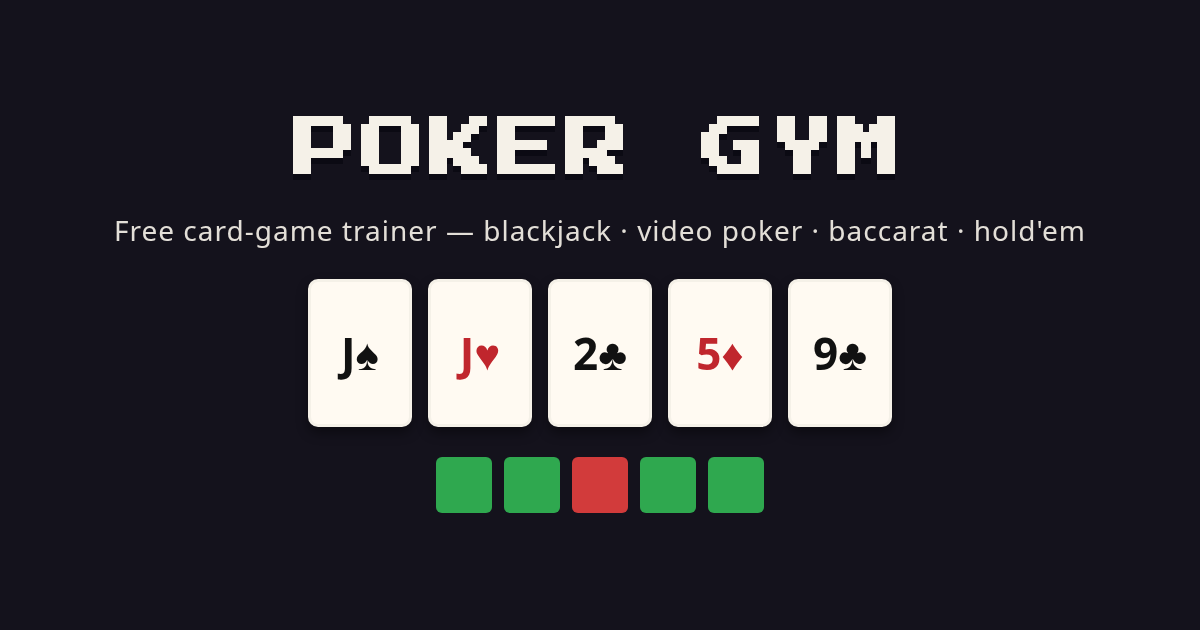
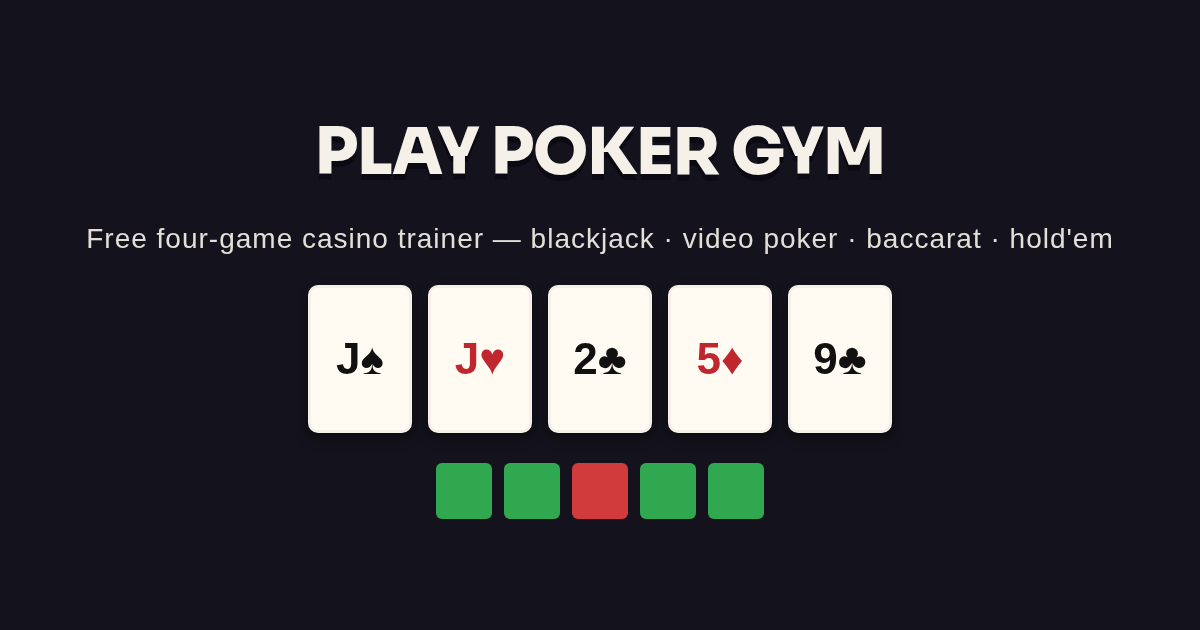
feat: render Play Poker Gym link-preview image
Regenerate the 1200x630 OG image with the full brand and four-game tagline, and update the deploy record in the shared docs.

diff --git a/docs/PokerGymControlDoc.md b/docs/PokerGymControlDoc.md
@@ -109,7 +109,7 @@ When all three subsections are filled, Wren drafts the final spec from what surv
 
 ## Decision Log
 
-- **2026-10-26 (Beam, deployed and verified live): Brand differentiation — Play Poker Gym.** The primary public brand is now **Play Poker Gym**; **Poker Gym** remains the short form. Reason: `pokergym.org` was registered 2025-12-30, predates `playpokergym.com` (2026-10-13), and currently ranks for "poker gym". Using the full name plus "four-game casino trainer" positioning reduces confusion without claiming exclusivity or affiliation. Updated public titles, OG/Twitter tags, JSON-LD (`Organization` name and `alternateName`, `WebSite`, `WebApplication`, `FAQPage`, guide `Article`/`BreadcrumbList`/`LearningResource`), `llms.txt`, `llms-full.txt`, all five guides, the privacy page, and footers. The in-game topbar keeps "Poker Gym" with the tagline "FOUR-GAME TRAINER"; compact share text keeps the short form. Privacy canonical, sitemap and internal links now use the final 200 URL `https://playpokergym.com/web/privacy` because Cloudflare 307s the `.html` form. Worker version `e51ea42d-3598-4edf-a0ae-e569c5504a77`. Verification: `npm test` 384/384; build clean; Lighthouse SEO 1.0; all public pages 200; privacy 200 at the canonical extensionless URL; `www` 301. **Actions:** Wren — use "Play Poker Gym" in reports and captions, keep "Poker Gym" only as the short form after the full name, and do not attribute `pokergym.org` traffic or content to us. ChatGPT — use the full brand in future captions and scheduling; current rendered videos are not being re-rendered. Grok — review the positioning and the four-game differentiation. This is brand differentiation, not a trademark claim or legal advice. No analytics definitions, product behavior, or scheduling changed. Source: live site checks, `pokergym.org` RDAP/Cloudflare Radar/llms.txt, local tests, and this deploy.
+- **2026-10-26 (Beam, deployed and verified live): Brand differentiation — Play Poker Gym.** The primary public brand is now **Play Poker Gym**; **Poker Gym** remains the short form. Reason: `pokergym.org` was registered 2025-12-30, predates `playpokergym.com` (2026-10-13), and currently ranks for "poker gym". Using the full name plus "four-game casino trainer" positioning reduces confusion without claiming exclusivity or affiliation. Updated public titles, OG/Twitter tags, JSON-LD (`Organization` name and `alternateName`, `WebSite`, `WebApplication`, `FAQPage`, guide `Article`/`BreadcrumbList`/`LearningResource`), `llms.txt`, `llms-full.txt`, all five guides, the privacy page, and footers. The 1200x630 OG image was regenerated with the full brand and four-game tagline. The in-game topbar keeps "Poker Gym" with the tagline "FOUR-GAME TRAINER"; compact share text keeps the short form. Privacy canonical, sitemap and internal links now use the final 200 URL `https://playpokergym.com/web/privacy` because Cloudflare 307s the `.html` form. Worker version `63c9b982-7474-4e28-985a-ef76795190d1`. Verification: `npm test` 384/384; build clean; Lighthouse SEO 1.0; all public pages 200; privacy 200 at the canonical extensionless URL; `www` 301. **Actions:** Wren — use "Play Poker Gym" in reports and captions, keep "Poker Gym" only as the short form after the full name, and do not attribute `pokergym.org` traffic or content to us. ChatGPT — use the full brand in future captions and scheduling; current rendered videos are not being re-rendered. Grok — review the positioning and the four-game differentiation. This is brand differentiation, not a trademark claim or legal advice. No analytics definitions, product behavior, or scheduling changed. Source: live site checks, `pokergym.org` RDAP/Cloudflare Radar/llms.txt, local tests, and this deploy.
 
 - **2026-10-25 (Beam, deployed and verified live):** Retention instrumentation, Daily Drill recap, and SEO/LLM discoverability shipped. Worker version `60678947-7daa-4841-99f0-4050bdcbc260`. **Measurement boundary: 2026-10-25.** Completion events now carry `run_kind`: `session_complete` adds `run_kind: 'session'`, `game`, `mode`; `daily_complete` adds `run_kind: 'daily'`. The scorecard funnel now accepts historical `session_complete` events with null `run_kind` and derives `game` from `maxIf(properties.game, event = 'game_start' OR event = 'session_complete')`, so WHERE SESSIONS END no longer reports 0 completions. `days_since_last_visit` is now persisted on every visit, not only when a profile already exists. Product changes: Daily Drill completion now gets the same recap as a five-hand session (score grid, streak, share, replay, install, .ics reminder, feedback, tip), and new Daily plans start with blackjack (V2); V1 is preserved for legacy progress and history so old days still attribute correctly. SEO/LLM: added `/llms.txt` and `/llms-full.txt`, explicit AI-crawler allowances in `robots.txt`, sitemap `lastmod`, canonical/OG/Twitter tags on every public page, visible landing FAQ, JSON-LD (`Organization`, `WebSite`, `WebApplication`, `FAQPage`, `Article`, `BreadcrumbList`, `LearningResource`), and `www` now permanently 301s to the bare domain. Verification: `npm test` 383/383; production returns 200 for all pages and crawler files; `www` returns 301; live `app.js` contains `run_kind`; Lighthouse SEO 1.0 on `/`, `/web/`, `/guides/blackjack/`, and `/web/privacy.html`. **Actions for the other three:** Wren — use 2026-10-25 as the instrumentation boundary when reporting `run_kind` coverage, re-check the scorecard's completed-session column, and watch `daily_complete.run_kind` plus daily recap events; canonical definitions of `session_complete` and `daily_complete` are unchanged. ChatGPT — the new SEO pages and structured data are live; no scheduling or caption change is implied, and the `/go` end-screen action from 2026-10-24 still applies. Grok — review the Daily recap and blackjack-first Daily plan as retention levers and critique the SEO/LLM layer; measure D1 after this deploy, not before. Context for the work: the 45-day PostHog pull found roughly 2% D1 retention, only three people active on 2+ days (one likely the owner), zero `share` and zero `feedback_submit` events, and 7–8 Daily Drill starters who never started it on a second day. These are measurements, not proof that any single fix works. Source: code reads, `/tmp/opencode/pokergym-all.json`, tests, build output, and live production checks on 2026-10-25.
 - **October 25, 2026, early afternoon Central (Wes decision, three moves on the dead mornings):** Wes approved three moves after the Facebook export showed the Oct 25 morning post at distribution -3.8x with 2 views, matching the Oct 18 disaster (-3.7x), while the Oct 24 morning scored only -0.7x with 5 views. (1) Wes checks Business Suite distribution detail, Page account status, and any flags on the two dead posts, which connectors cannot see. (2) ChatGPT verifies the Oct 25 Facebook morning post in Metricool (scheduled time, published status, media file vs the original, caption tags, any publish errors), same investigation as the Oct 24 post, and does not edit, delete, or repost the video. (3) Wes invites the three Facebook strangers who reacted Oct 23 (John Maffetore, Ranjan Seal, Miguel Angel) to follow the Page via the native invite on the post's likes; this is warm strangers, not the personal Rolodex, which stays dead. No repost of the dead videos, no schedule change, no extra post today; the Oct 25 4 PM control and the Oct 26 to 31 batch run untouched. Source: Wes's approval, Oct 25, plus Wes's Sep-27 to Oct-25 Facebook export.

diff --git a/automation/PROGRESS.md b/automation/PROGRESS.md
@@ -1713,7 +1713,7 @@ Next action: use the next scheduled stats read or voluntary feedback to check wh
 
 ## 2026-10-26 — brand differentiation: Play Poker Gym
 
-Outcome: deployed Worker `e51ea42d-3598-4edf-a0ae-e569c5504a77`. The primary public brand is now **Play Poker Gym**, with **Poker Gym** kept as the short form. Public metadata, guides, privacy page, `llms.txt`, `llms-full.txt`, structured data, and footers use the full name and describe the site as a **four-game casino trainer**. The in-game topbar keeps the short name with the tagline `FOUR-GAME TRAINER`; compact share cards keep the short form.
+Outcome: deployed Worker `63c9b982-7474-4e28-985a-ef76795190d1`. The primary public brand is now **Play Poker Gym**, with **Poker Gym** kept as the short form. Public metadata, guides, privacy page, `llms.txt`, `llms-full.txt`, structured data, and footers use the full name and describe the site as a **four-game casino trainer**. The 1200x630 OG image was regenerated with the full brand and four-game tagline. The in-game topbar keeps the short name with the tagline `FOUR-GAME TRAINER`; compact share cards keep the short form.
 
 Reason: `pokergym.org` was registered 2025-12-30, about 9.5 months before `playpokergym.com` (2026-10-13), and it currently ranks for "poker gym". The full name plus four-game positioning reduces brand confusion. This is brand differentiation, not a trademark claim, legal advice, or an assertion of affiliation.
 
